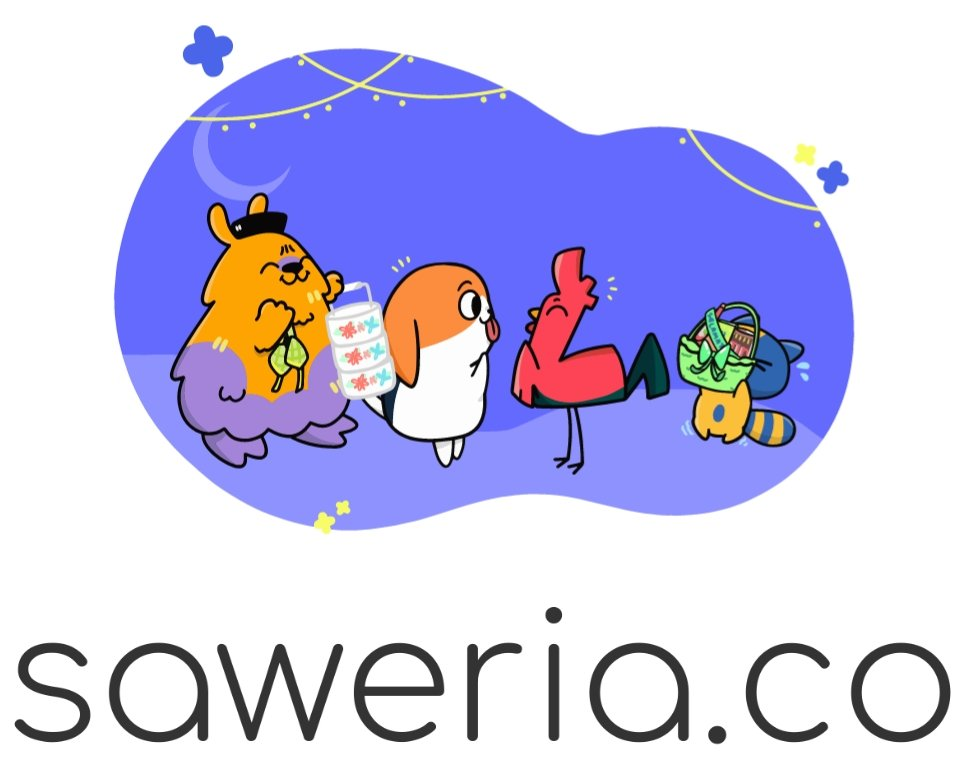
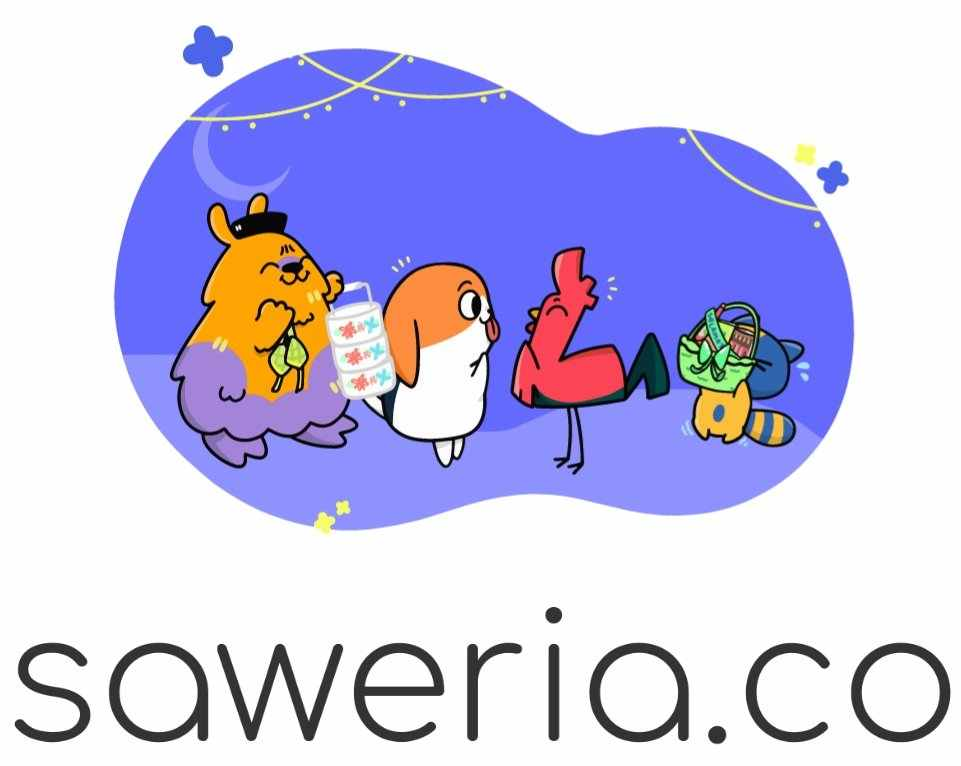
compress gambar saweria dan nambah lazy loading ke gambar jpg

diff --git a/donate.html b/donate.html
@@ -58,7 +58,7 @@
       <div class="mx-auto col-12 col-lg-6">
         <div class="text-center card my-2">
           <div class="card-header pb-0 pt-4">
-            <img src=assets/img/me.jpg height=150px alt="" class="mx-auto d-block mb-3 rounded-circle">
+            <img src=assets/img/me.jpg height=150px alt="" class="mx-auto d-block mb-3 rounded-circle" loading="lazy">
             <h1
               class="mb-0 title">Taufik Hidayat</h1><br>
           </div>
@@ -143,7 +143,7 @@
               <div class="fade tab-pane" id=saweria aria-labelledby=saweria-tab role=tabpanel>
                 <h5 class=card-title>Support me via Saweria*</h5>
                 <p class=card-text>
-                  <img src="assets/img/saweria.jpg" alt="" height="76vh">
+                  <img src="assets/img/saweria.jpg" alt="" height="76vh" loading="lazy">
                   <p class=card-text>
                     <i>*mendukung QRIS</i>
                   </p>
@@ -167,7 +167,7 @@
             </div>
             <div class=card-footer>
               <p class=mb-0 align=center>
-                <a href=https://facebook.com/tfkhdyt142><img src=https://upload.wikimedia.org/wikipedia/commons/5/51/Facebook_f_logo_%282019%29.svg height=23 class="mx-1"></a><a href=https://twitter.com/tfkhdyt><img src=https://upload.wikimedia.org/wikipedia/en/6/60/Twitter_Logo_as_of_2021.svg height=22 class="mx-1"></a><a href=https://instagram.com/_tfkhdyt_><img src=https://upload.wikimedia.org/wikipedia/commons/e/e7/Instagram_logo_2016.svg height=23 class="mx-1"></a><a href=https://youtube.com/tfkhdyt><img src=https://upload.wikimedia.org/wikipedia/commons/a/a0/YouTube_social_red_circle_%282017%29.svg height=23 class="mx-1"></a><a href=https://github.com/tfkhdyt><img src=https://upload.wikimedia.org/wikipedia/commons/9/91/Octicons-mark-github.svg height=23 class="mx-1"></a><a href=https://t.me/tfkhdyt><img src=https://upload.wikimedia.org/wikipedia/commons/8/83/Telegram_2019_Logo.svg height=23 class="mx-1"></a><a href="https://open.spotify.com/playlist/4JR5wqcnuOQw6ppF38Vpu9?si=zHMKBfCiRrGVamKsL8LXqQ"><img src=https://upload.wikimedia.org/wikipedia/commons/1/19/Spotify_logo_without_text.svg height=23 class="mx-1"></a><a href=https://pddikti.kemdikbud.go.id/data_mahasiswa/QUUyNzdEMjktNDk0Ri00RTlDLUE4NzgtNkUwRDBDRjIxOUNB><img src=https://i.postimg.cc/YSB2c3DG/1619598282440.png height=23 class="mx-1"></a><a href=https://www.linkedin.com/mwlite/in/taufik-hidayat-6793aa200><img src=https://upload.wikimedia.org/wikipedia/commons/8/81/LinkedIn_icon.svg height=23 class="mx-1"></a>
+                <a href=https://facebook.com/tfkhdyt142><img src=https://upload.wikimedia.org/wikipedia/commons/5/51/Facebook_f_logo_%282019%29.svg height=23 class="mx-1"></a><a href=https://twitter.com/tfkhdyt><img src=https://upload.wikimedia.org/wikipedia/en/6/60/Twitter_Logo_as_of_2021.svg height=22 class="mx-1"></a><a href=https://instagram.com/_tfkhdyt_><img src=https://upload.wikimedia.org/wikipedia/commons/e/e7/Instagram_logo_2016.svg height=23 class="mx-1"></a><a href=https://youtube.com/tfkhdyt><img src=https://upload.wikimedia.org/wikipedia/commons/a/a0/YouTube_social_red_circle_%282017%29.svg height=23 class="mx-1"></a><a href=https://github.com/tfkhdyt><img src=https://upload.wikimedia.org/wikipedia/commons/9/91/Octicons-mark-github.svg height=23 class="mx-1"></a><a href=https://t.me/tfkhdyt><img src=https://upload.wikimedia.org/wikipedia/commons/8/83/Telegram_2019_Logo.svg height=23 class="mx-1"></a><a href="https://open.spotify.com/playlist/4JR5wqcnuOQw6ppF38Vpu9?si=zHMKBfCiRrGVamKsL8LXqQ"><img src=https://upload.wikimedia.org/wikipedia/commons/1/19/Spotify_logo_without_text.svg height=23 class="mx-1"></a><a href=https://www.linkedin.com/mwlite/in/taufik-hidayat-6793aa200><img src=https://upload.wikimedia.org/wikipedia/commons/8/81/LinkedIn_icon.svg height=23 class="mx-1"></a>
               </div>
             </div>
           </div>
@@ -182,7 +182,7 @@
                 type=button></button>
             </div>
             <div class="text-center modal-body">
-              <img src=assets/img/qr_ovo.jpg alt="" width=75%><br><small>Terima kasih atas donasinya 🙏🏼<br>Support Anda sangat berarti bagi saya.</small>
+              <img src=assets/img/qr_ovo.jpg alt="" width=75% loading="lazy"><br><small>Terima kasih atas donasinya 🙏🏼<br>Support Anda sangat berarti bagi saya.</small>
             </div>
             <div
               class=modal-footer>
@@ -200,7 +200,7 @@
                 type=button></button>
             </div>
             <div class="text-center modal-body">
-              <img src=assets/img/qr_linkaja.jpg alt="" width=75%><br><small>Terima kasih atas donasinya 🙏🏼<br>Support Anda sangat berarti bagi saya.</small>
+              <img src=assets/img/qr_linkaja.jpg alt="" width=75% loading="lazy"><br><small>Terima kasih atas donasinya 🙏🏼<br>Support Anda sangat berarti bagi saya.</small>
             </div>
             <div
               class=modal-footer>
@@ -218,7 +218,7 @@
                 type=button></button>
             </div>
             <div class="text-center modal-body">
-              <img src=assets/img/qr_gopay.jpg alt="" width=75%><br><small>Terima kasih atas donasinya 🙏🏼<br>Support Anda sangat berarti bagi saya.</small>
+              <img src=assets/img/qr_gopay.jpg alt="" width=75% loading="lazy"><br><small>Terima kasih atas donasinya 🙏🏼<br>Support Anda sangat berarti bagi saya.</small>
             </div>
             <div
               class=modal-footer>
